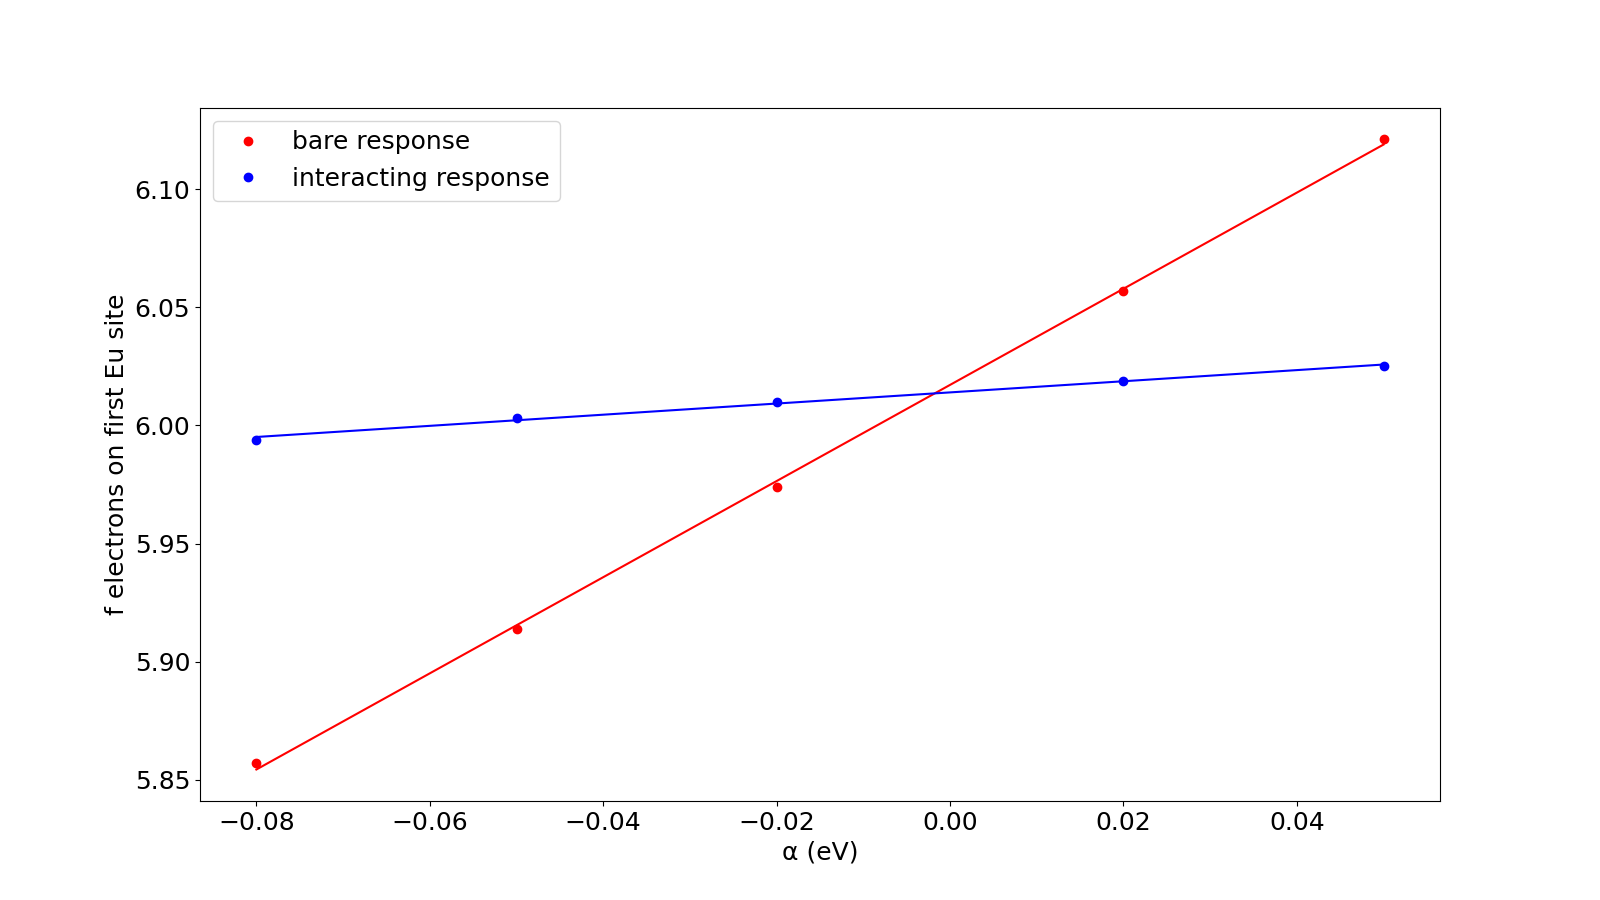
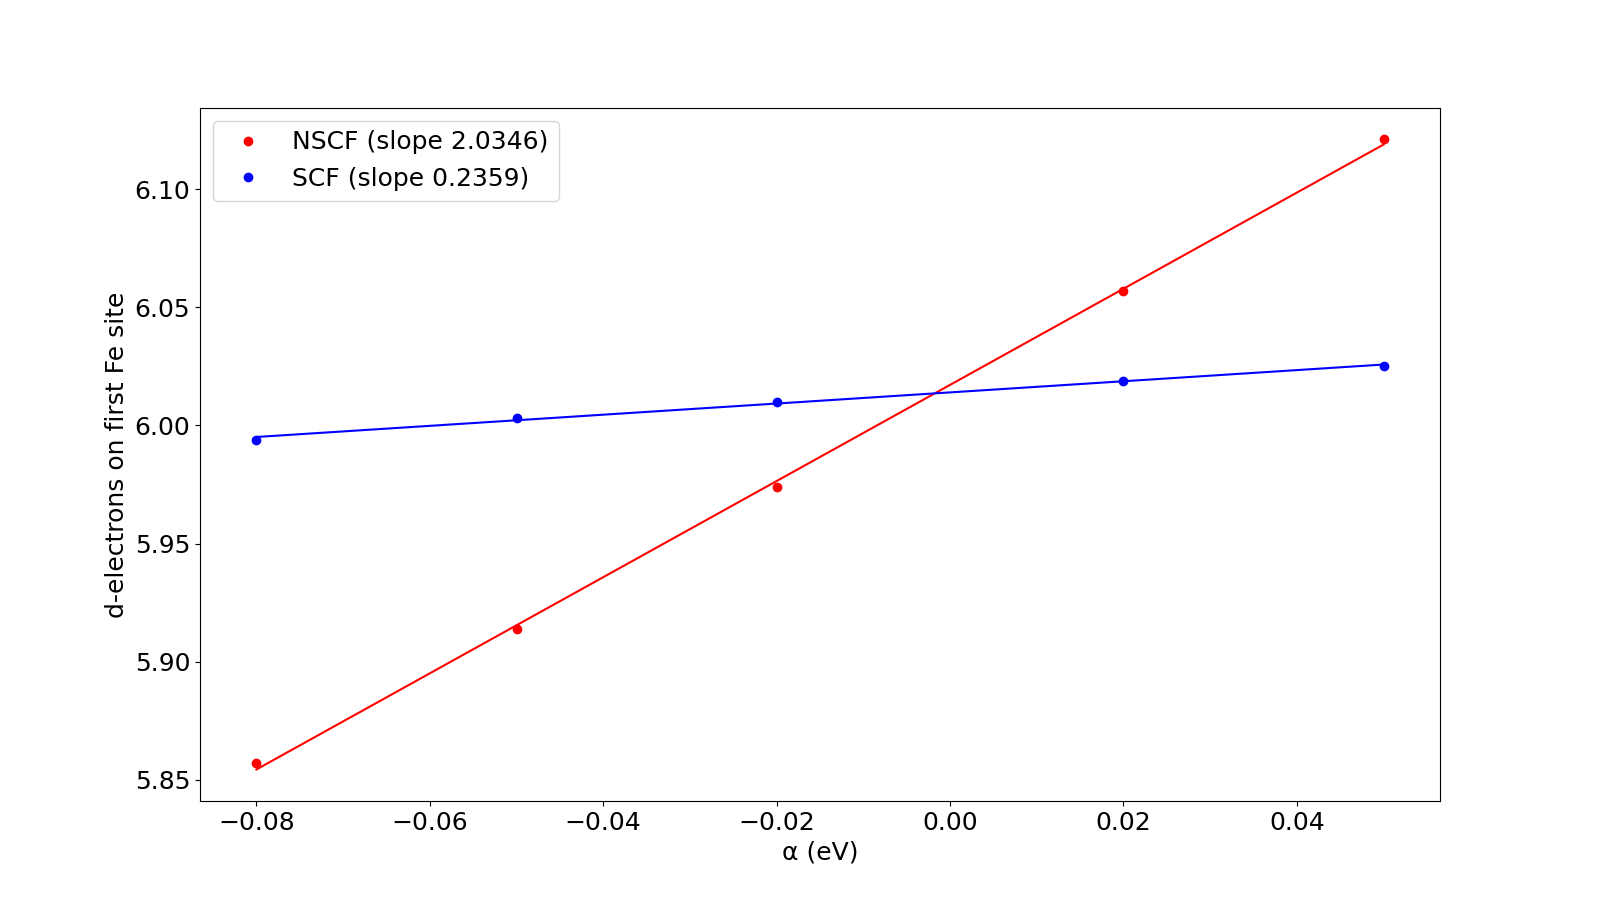
little improvements in linear response folder

Changed region(s): [[0.1875, 0.1244, 0.3438, 0.2178], [0.0625, 0.3422, 0.0938, 0.6844]]

diff --git a/1_lin_response/plot_results.py b/1_lin_response/plot_results.py
@@ -22,14 +22,13 @@ perturbations = np.array([-0.08, -0.05, -0.02, 0.02, 0.05])
 nscf = np.array([5.857, 5.914, 5.974, 6.057, 6.121])
 scf = np.array([5.994, 6.003, 6.010, 6.019, 6.025])
 
-
 plt.figure(figsize=(16, 9))
-
-plt.plot(perturbations, nscf, 'ro', label='bare response')
-plt.plot(perturbations, scf, 'bo', label='interacting response')
 
 slope_nscf, intercept_nscf, r_value_nscf, p_value_nscf, std_err_nscf = stats.linregress(perturbations, nscf)
 slope_scf, intercept_scf, r_value_scf, p_value_scf, std_err_scf = stats.linregress(perturbations, scf)
+
+plt.plot(perturbations, nscf, 'ro', label=f'NSCF (slope {slope_nscf:.4f})')
+plt.plot(perturbations, scf, 'bo', label=f'SCF (slope {slope_scf:.4f})')
 
 nscf_line = [value * slope_nscf + intercept_nscf for value in perturbations]
 scf_line = [value * slope_scf + intercept_scf for value in perturbations]
@@ -37,10 +36,7 @@ plt.plot(perturbations, nscf_line, 'r-')
 plt.plot(perturbations, scf_line, 'b-')
 
 plt.xlabel('α (eV)')
-plt.ylabel('f electrons on first Eu site')
+plt.ylabel('d-electrons on first Fe site')
 plt.legend()
 # plt.show()
 plt.savefig('Ucalc.png')
-
-print(f'NSCF slope: {slope_nscf:.4f}')
-print(f'SCF slope: {slope_scf:.4f}')

diff --git a/1_lin_response/submit.py b/1_lin_response/submit.py
@@ -15,13 +15,11 @@ from common.SubmitFirework import SubmitFirework
 # location of the poscar file with the input structure
 atoms = read('../input/Fe2O3-alpha.vasp')
 
-# what are we launching
+# choose the desired mode: 'BARE', 'NSC' or 'SC'
 MODE = 'BARE'
-# MODE = 'NSC'
-# MODE = 'SC'
 
 # launchdir of the bare run
-BARE_DIR = '/cephfs/home/mgalasso/fw_calcs/block_2020-12-14-08-02-00-715229/launcher_2020-12-25-08-35-18-089220'
+BARE_DIR = '/cephfs/home/mgalasso/fw_calcs/block_2021-01-09-08-46-32-079078/launcher_2021-01-19-12-25-04-409802'
 
 # change first Fe atom to Ni and save in a poscar file
 poscar_file = 'onefakeatom.vasp'
